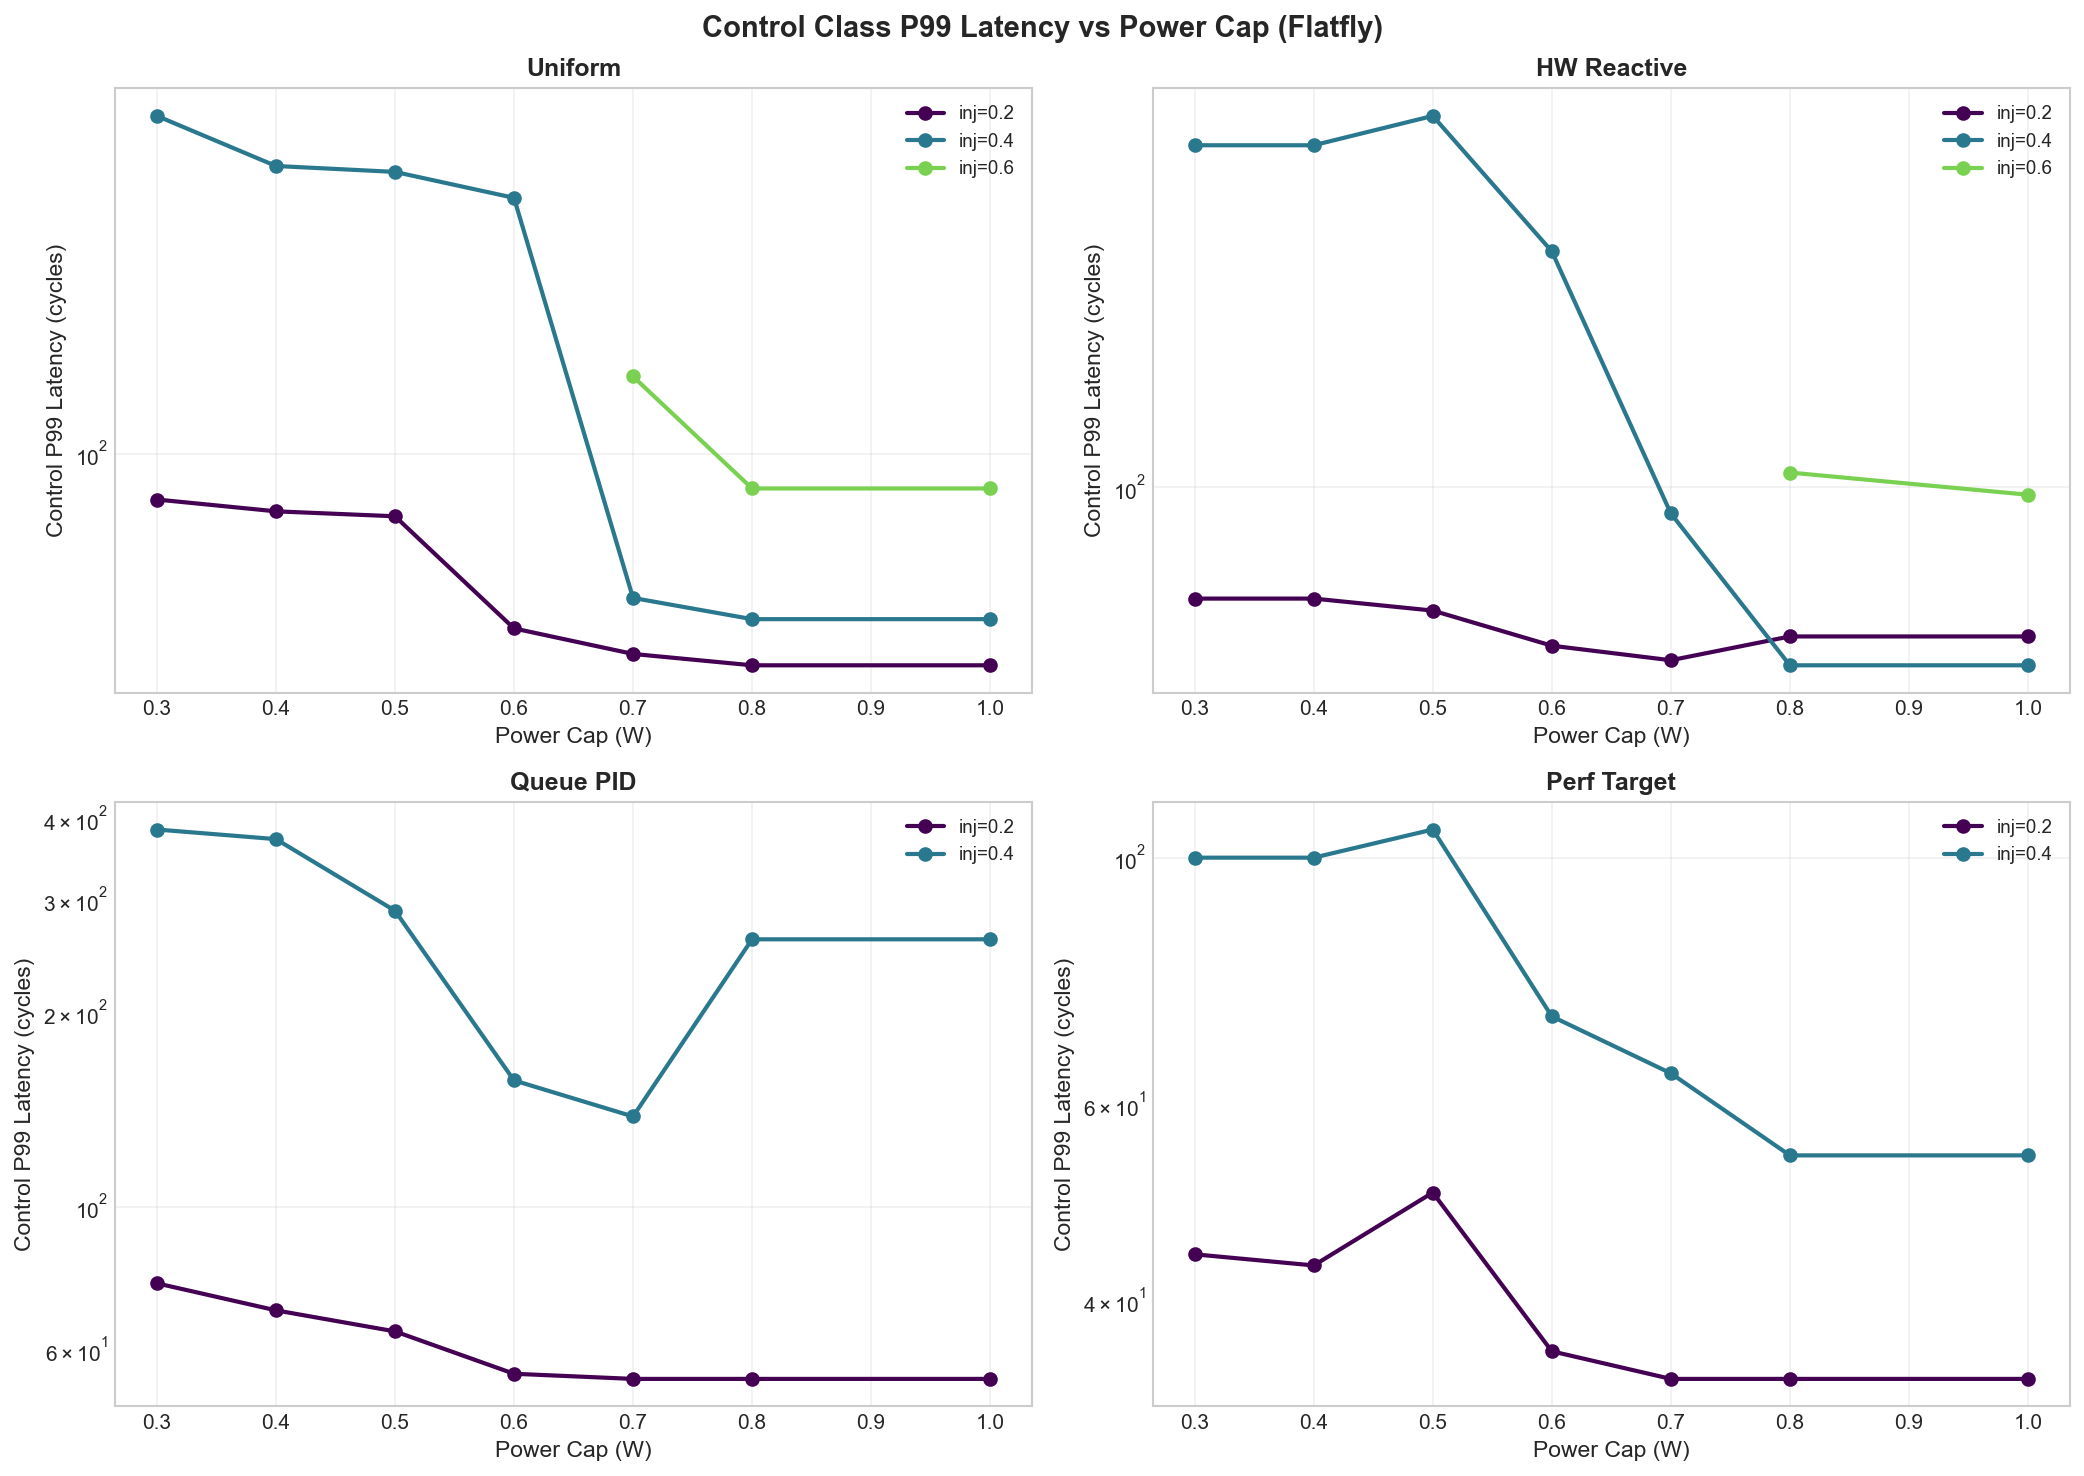
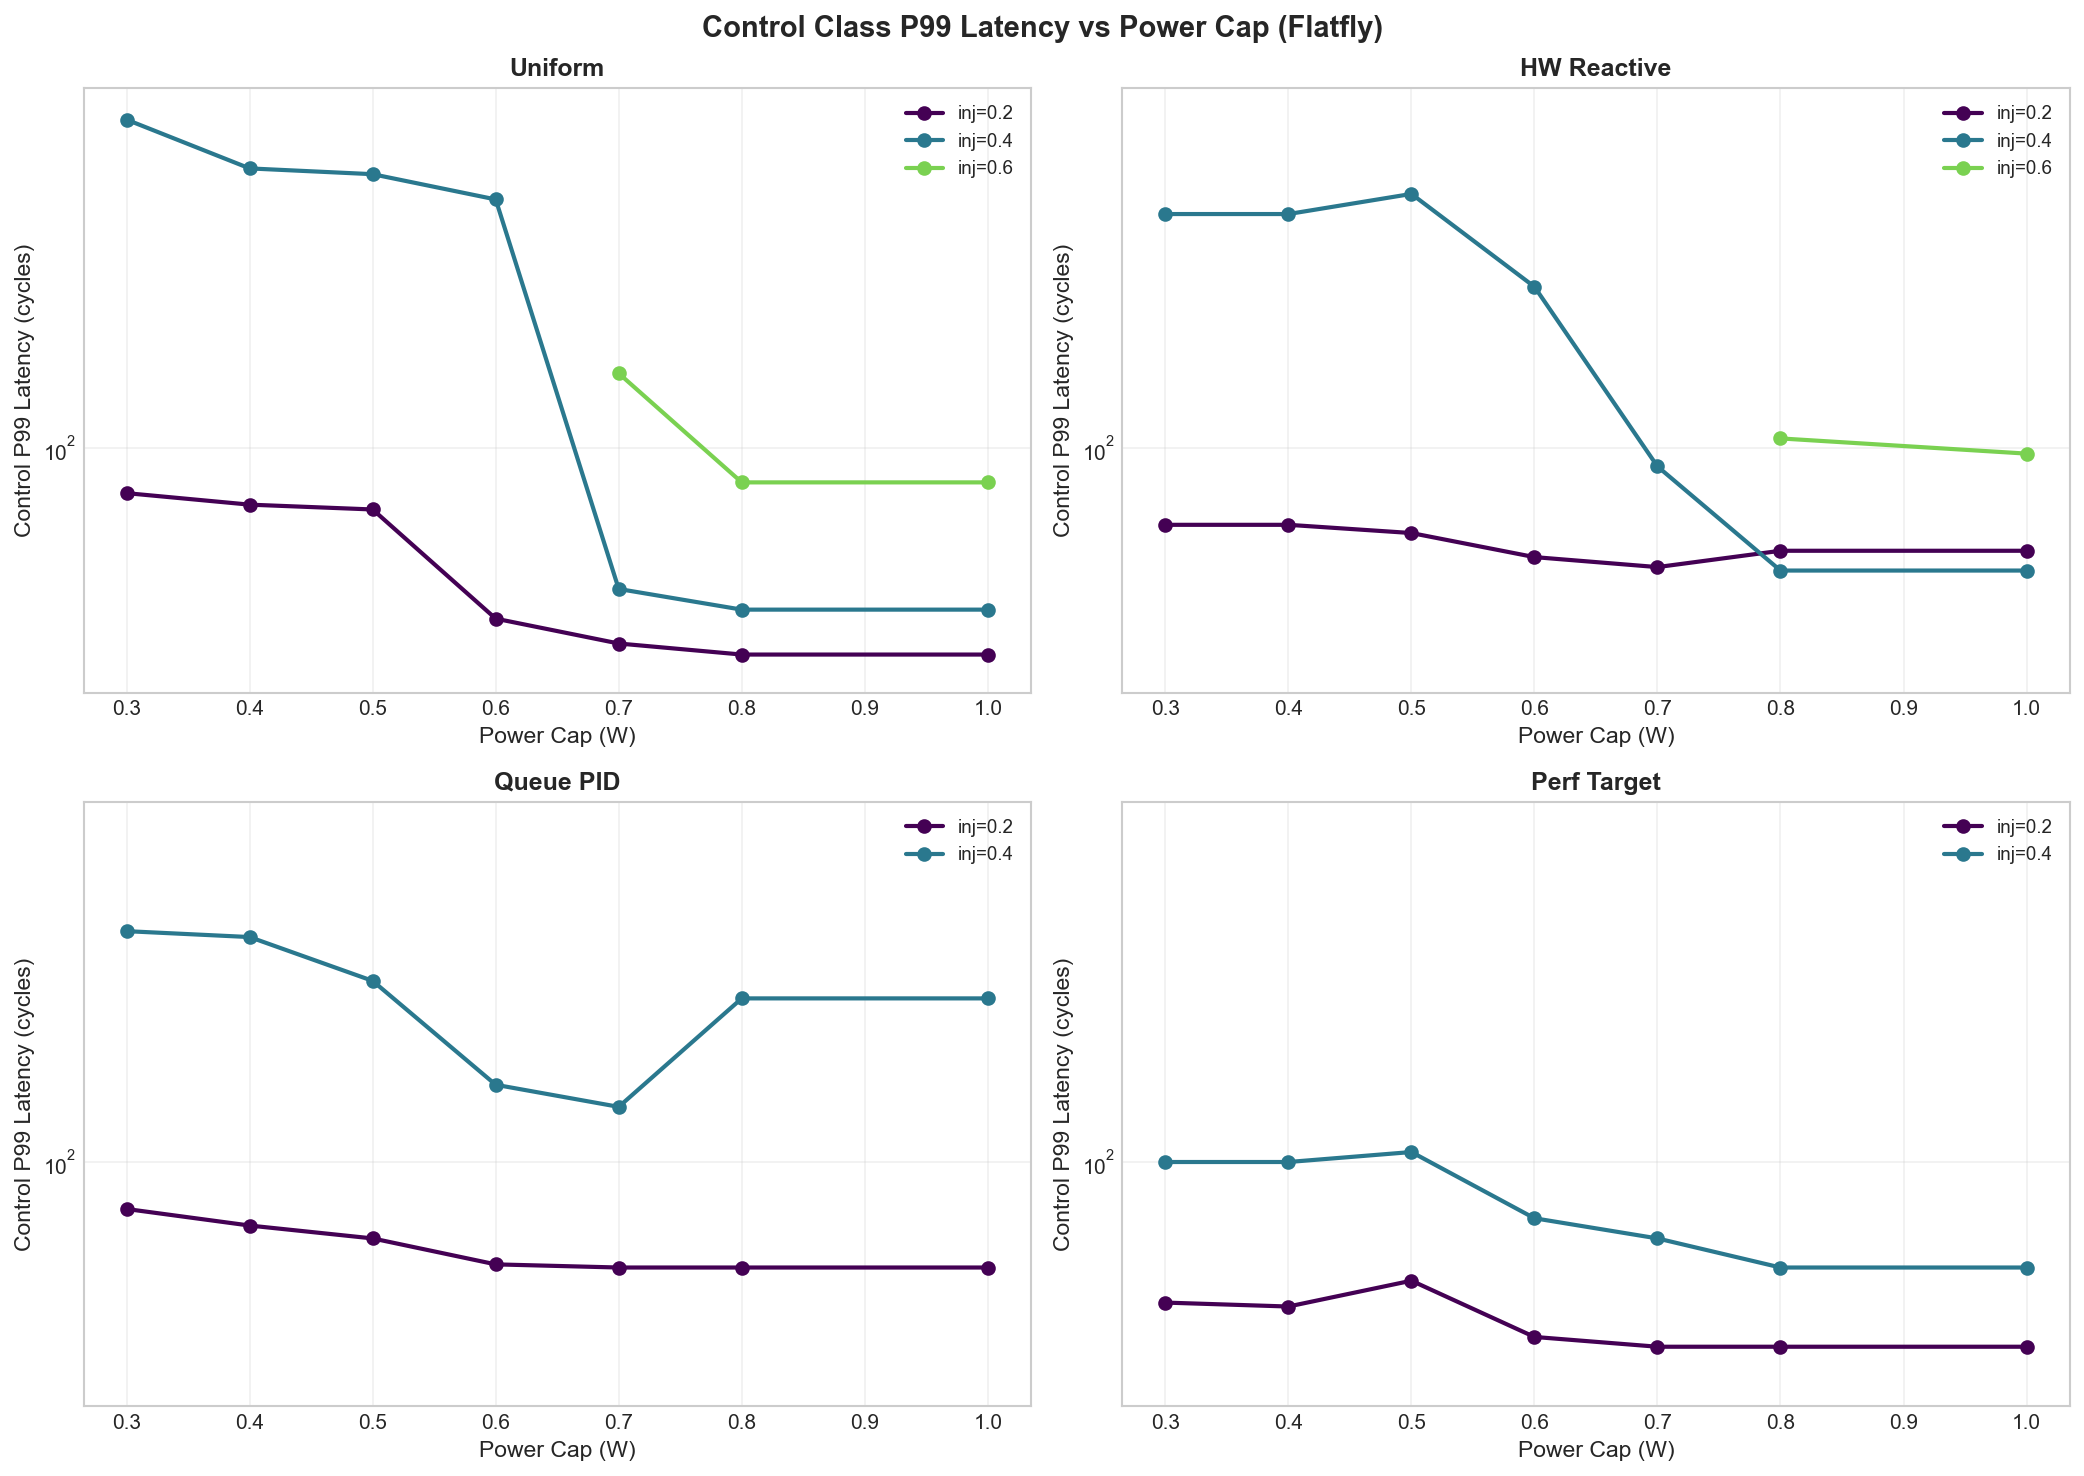
adjust plots to be on same scale

diff --git a/scripts/plot_final_paper.py b/scripts/plot_final_paper.py
@@ -146,6 +146,24 @@ def plot_latency_vs_power_cap_by_injection(df, topology, class_type='control'):
     
     colors_inj = plt.cm.viridis(np.linspace(0, 0.8, len(injection_rates)))
     
+    # First pass: collect all y values to determine global min/max
+    all_y_values = []
+    for policy in ['uniform', 'hw_reactive', 'queue_pid', 'perf_target']:
+        policy_df = topo_df[topo_df['policy'] == policy]
+        for inj_rate in injection_rates:
+            inj_df = policy_df[policy_df['injection_rate'] == inj_rate]
+            inj_df = inj_df.dropna(subset=[metric_col])
+            if not inj_df.empty:
+                all_y_values.extend(inj_df[metric_col].tolist())
+    
+    # Compute global ylim with some padding
+    if all_y_values:
+        global_ymin = min(all_y_values) * 0.8
+        global_ymax = max(all_y_values) * 1.2
+    else:
+        global_ymin, global_ymax = None, None
+    
+    # Second pass: plot with consistent y-axis scale
     for idx, policy in enumerate(['uniform', 'hw_reactive', 'queue_pid', 'perf_target']):
         ax = axes[idx]
         policy_df = topo_df[topo_df['policy'] == policy]
@@ -166,6 +184,10 @@ def plot_latency_vs_power_cap_by_injection(df, topology, class_type='control'):
         ax.legend(loc='best', fontsize=9)
         ax.grid(True, alpha=0.3)
         ax.set_yscale('log')
+        
+        # Apply consistent y-axis limits
+        if global_ymin is not None and global_ymax is not None:
+            ax.set_ylim(global_ymin, global_ymax)
     
     plt.suptitle(f'{class_type.capitalize()} Class P99 Latency vs Power Cap ({topology.capitalize()})', 
                  fontsize=14, fontweight='bold')
@@ -355,6 +377,22 @@ def plot_comparison_all_policies(df, topology):
     
     topo_df = df[df['topology'] == topology]
     
+    # Pre-compute global limits for Control P99 and Batch P99
+    control_p99_vals = topo_df['control_p99'].dropna()
+    batch_p99_vals = topo_df['batch_p99'].dropna()
+    
+    if not control_p99_vals.empty:
+        control_ymin = control_p99_vals.min() * 0.8
+        control_ymax = control_p99_vals.max() * 1.2
+    else:
+        control_ymin, control_ymax = None, None
+    
+    if not batch_p99_vals.empty:
+        batch_ymin = batch_p99_vals.min() * 0.8
+        batch_ymax = batch_p99_vals.max() * 1.2
+    else:
+        batch_ymin, batch_ymax = None, None
+    
     # Plot 1: Control P99 vs Power Cap
     ax = axes[0, 0]
     for policy in ['uniform', 'hw_reactive', 'queue_pid', 'perf_target']:
@@ -371,6 +409,8 @@ def plot_comparison_all_policies(df, topology):
     ax.legend(fontsize=8)
     ax.grid(True, alpha=0.3)
     ax.set_yscale('log')
+    if control_ymin is not None:
+        ax.set_ylim(control_ymin, control_ymax)
     
     # Plot 2: Batch P99 vs Power Cap
     ax = axes[0, 1]
@@ -388,6 +428,8 @@ def plot_comparison_all_policies(df, topology):
     ax.legend(fontsize=8)
     ax.grid(True, alpha=0.3)
     ax.set_yscale('log')
+    if batch_ymin is not None:
+        ax.set_ylim(batch_ymin, batch_ymax)
     
     # Plot 3: Control Throughput vs Power Cap
     ax = axes[0, 2]
@@ -421,6 +463,8 @@ def plot_comparison_all_policies(df, topology):
     ax.legend(fontsize=8)
     ax.grid(True, alpha=0.3)
     ax.set_yscale('log')
+    if control_ymin is not None:
+        ax.set_ylim(control_ymin, control_ymax)
     
     # Plot 5: Batch P99 vs Injection Rate
     ax = axes[1, 1]
@@ -438,6 +482,8 @@ def plot_comparison_all_policies(df, topology):
     ax.legend(fontsize=8)
     ax.grid(True, alpha=0.3)
     ax.set_yscale('log')
+    if batch_ymin is not None:
+        ax.set_ylim(batch_ymin, batch_ymax)
     
     # Plot 6: Average Frequency vs Power Cap (throttling indicator)
     ax = axes[1, 2]
